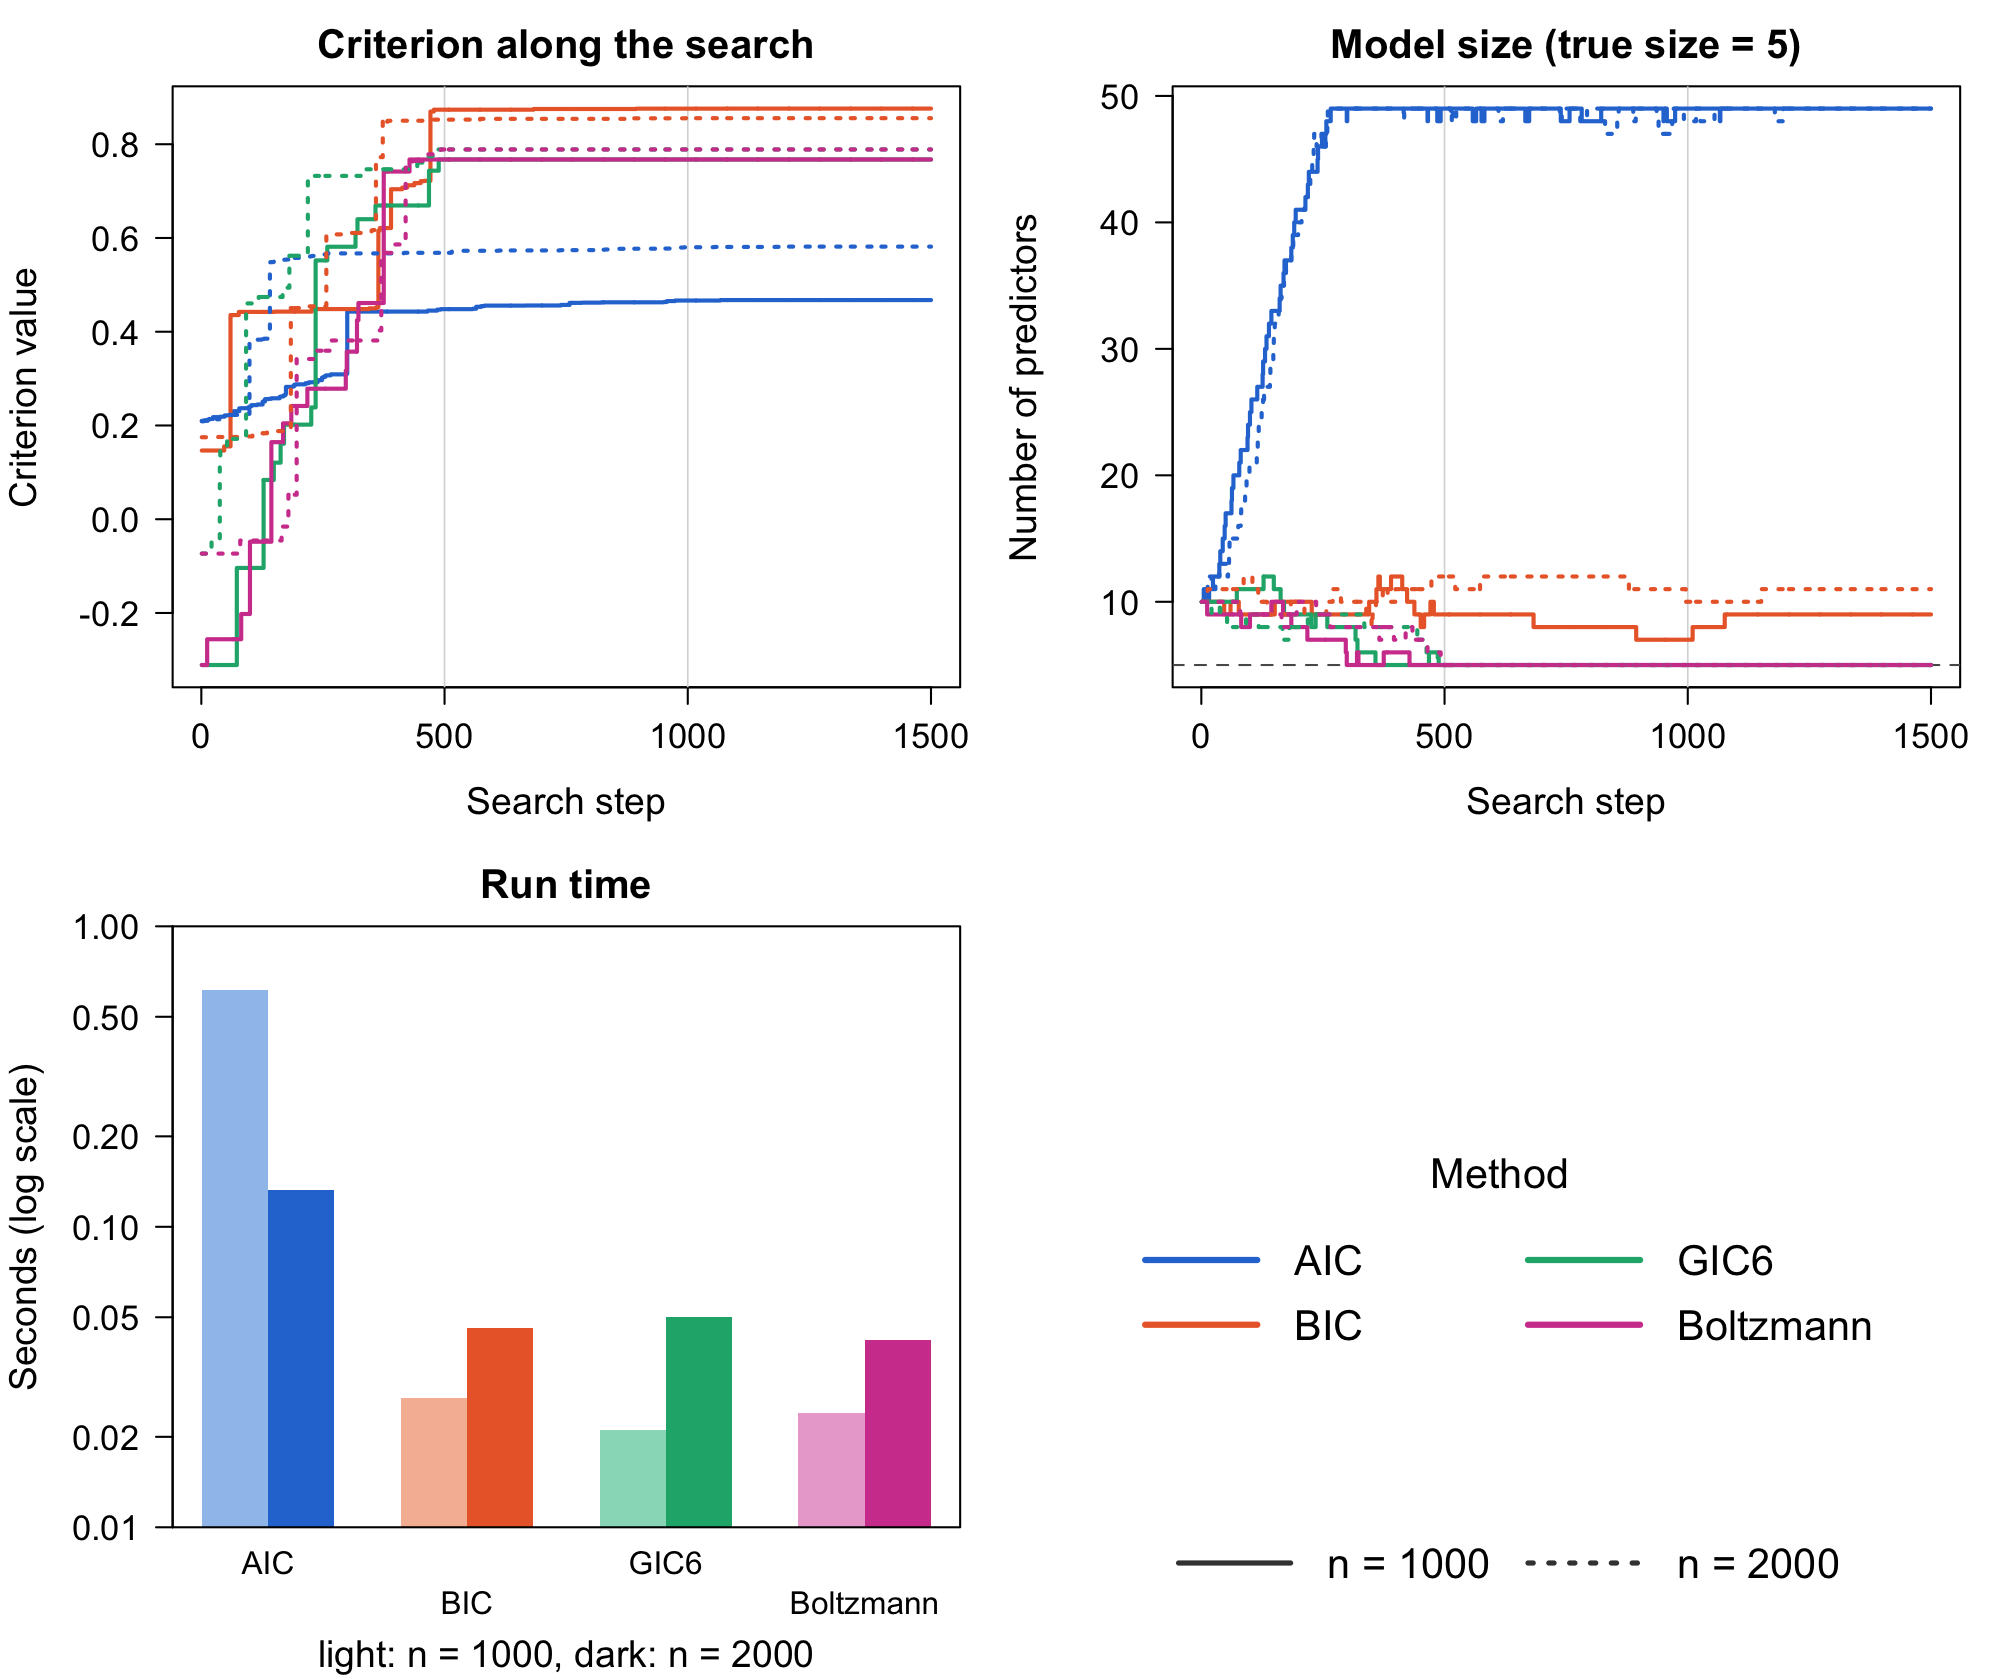
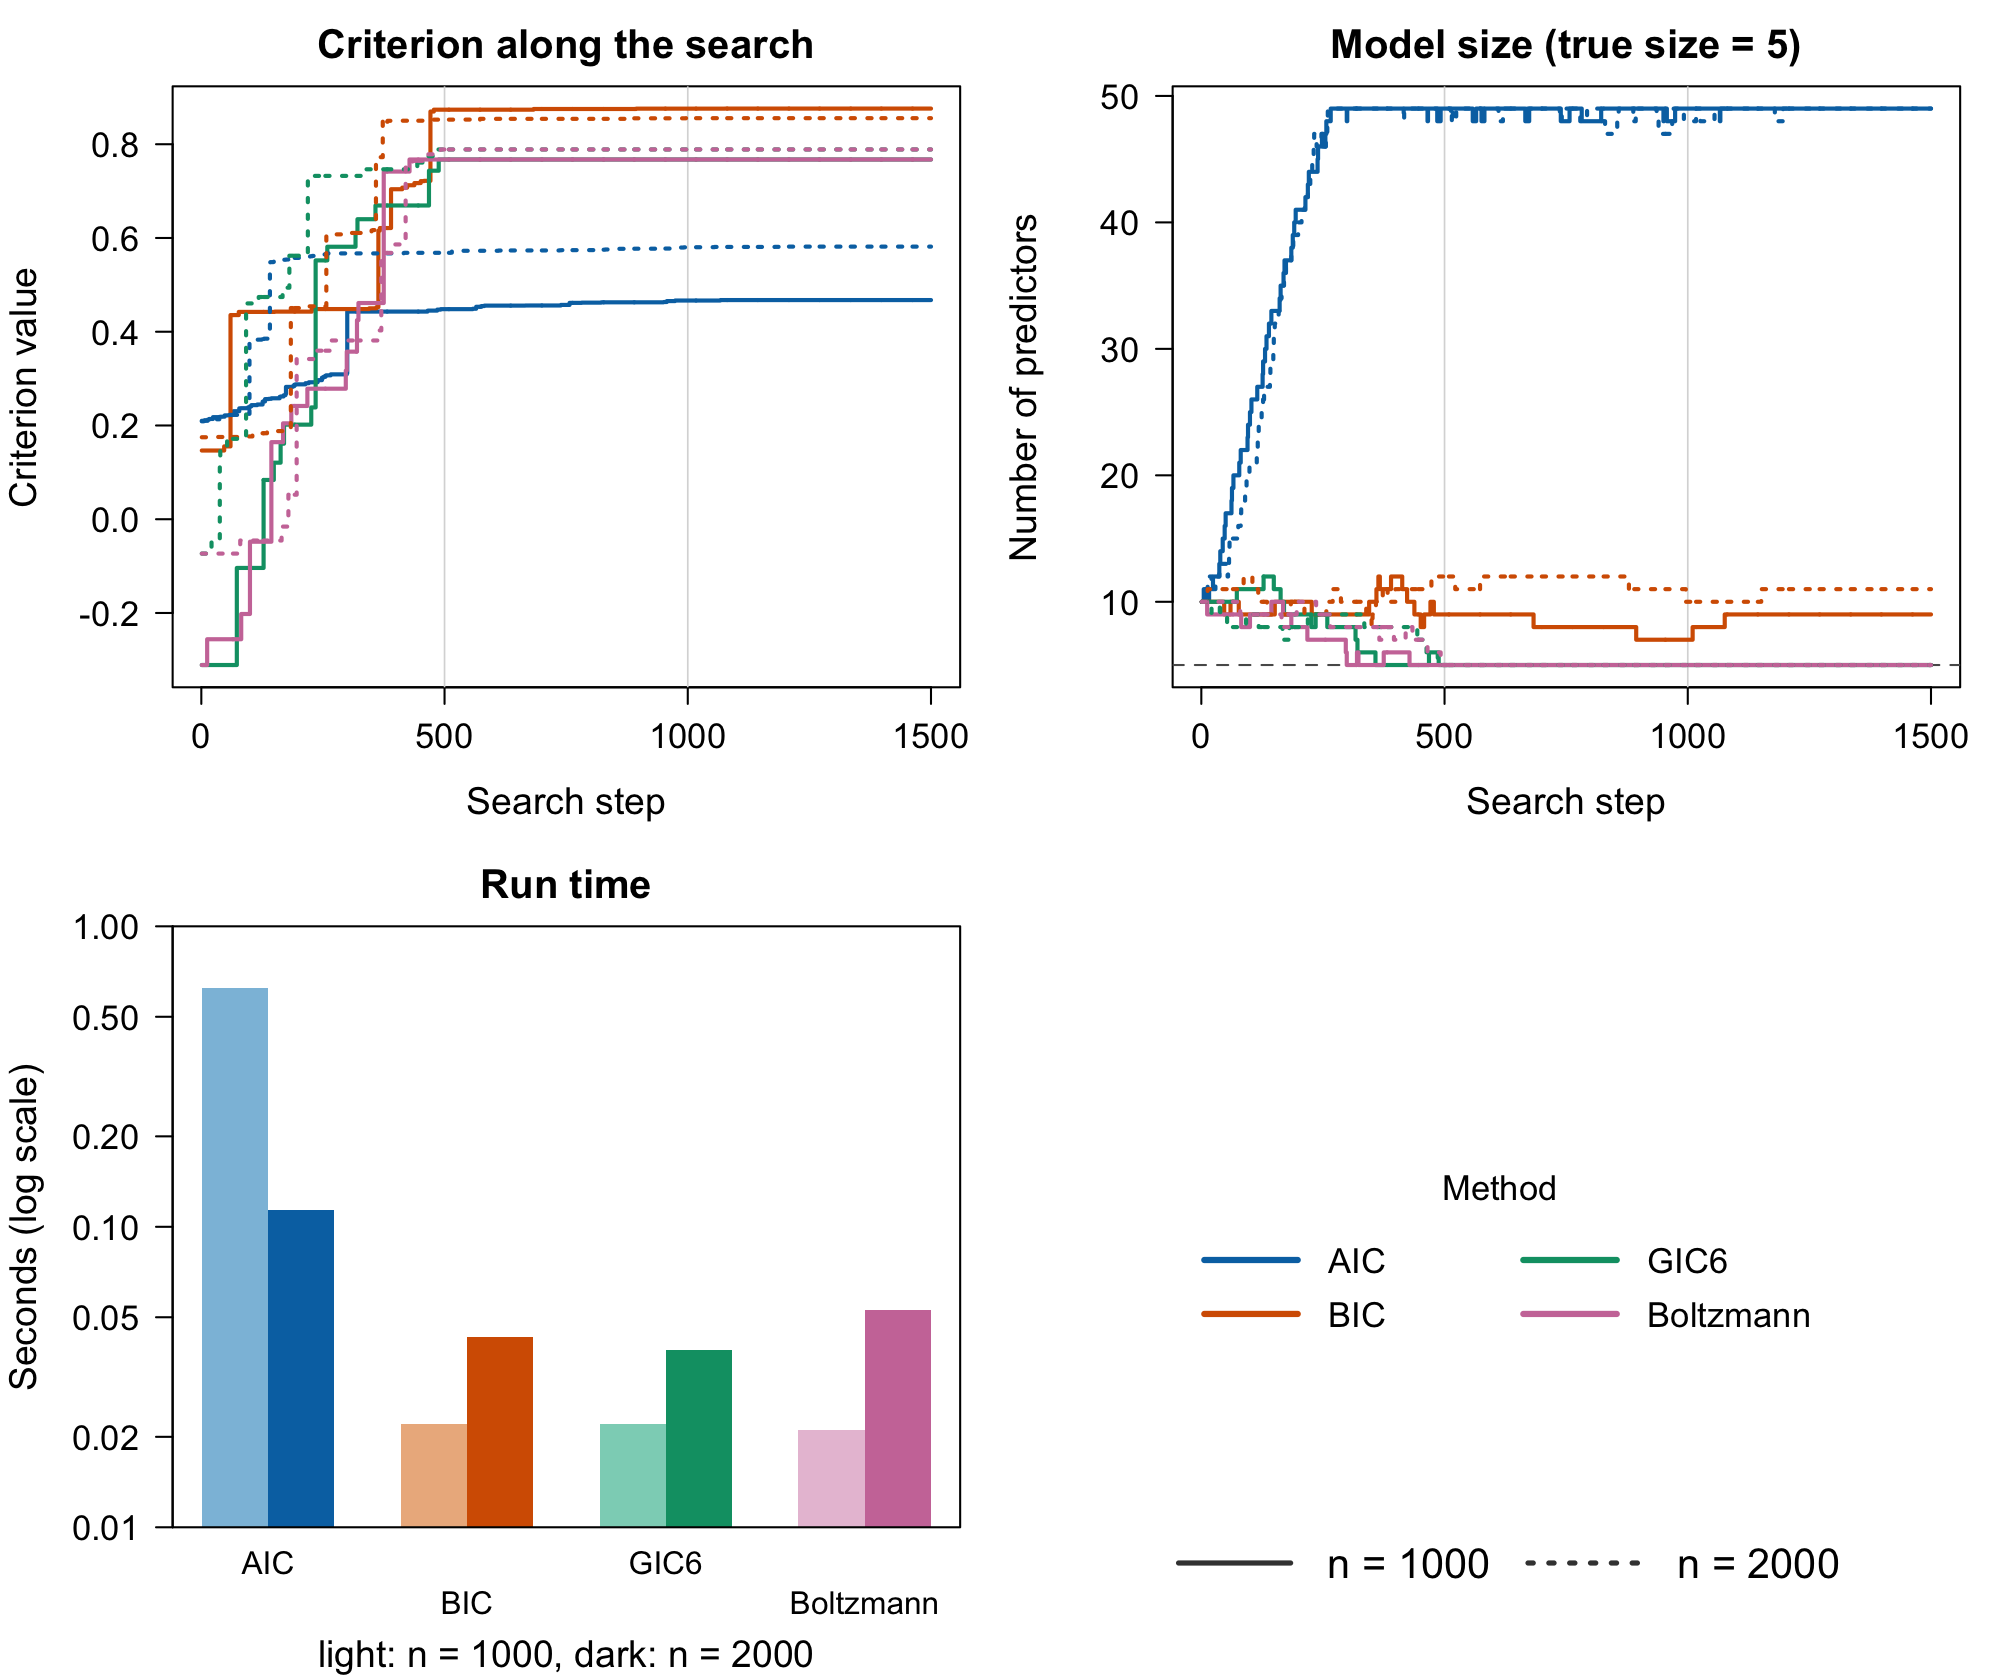
Figures: Okabe-Ito colours, signed-log criterion axis, lasso paths end at lambda.min
- Colours from the Okabe-Ito palette so the six methods are easier to tell
  apart; smaller legend text.
- Linear and multivariate examples: criterion value on a signed log scale,
  sign(y) log10(1 + |y|), labelled in the original units.
- Lasso paths now run from the smallest lambda to lambda.min, so they end at
  the selected model instead of dropping to zero predictors at the largest
  lambda.

diff --git a/README.md b/README.md
@@ -169,7 +169,8 @@ selected model, and the wall-clock time of each method in seconds. The
 right-hand panel of each
 figure shows the same times, and the middle panel also shows the lasso
 paths: the number of nonzero coefficients along the $\lambda$ grid, from the
-smallest $\lambda$ on the left to the largest on the right.
+smallest $\lambda$ on the left to the cross-validated $\lambda$ (`lambda.min`)
+on the right, so each path ends at the selected model.
 
 <!-- Helper functions used in the examples (hidden; run by data-raw/readme_figures.R)
 
@@ -217,8 +218,10 @@ fit_lasso <- function(X, y, family, adaptive = FALSE) {
     args$penalty.factor <- 1 / sqrt(rowSums(lasso_coef(ridge)^2))
   }
   cvfit <- do.call(glmnet::cv.glmnet, args)
+  # path: number of predictors at each lambda from lambda.min down to the
+  # smallest lambda, so it ends at the selected model
   list(selected = which(rowSums(lasso_coef(cvfit) != 0) > 0),
-       path = cvfit$nzero)        # number of predictors at each lambda
+       path = cvfit$nzero[cvfit$index["min", 1]:length(cvfit$nzero)])
 }
 
 # For each n, run the search once per criterion on the first n observations,
@@ -303,18 +306,18 @@ Y <- LP_to_Y(X, beta, family = "Normal", std = sqrt(sum(beta^2) / 0.71))
 fits <- compare_criteria(X, Y, 1:p, k = p, Nsim = 5)
 selection_table(fits, true_cols)
 #>                 size false_pos false_neg seconds
-#> n1000 AIC        152       147         0    0.71
-#> n1000 BIC          8         3         0    0.62
-#> n1000 GIC6         5         0         0    0.40
-#> n1000 Boltzmann    5         0         0    0.43
-#> n1000 Lasso       22        17         0    0.84
-#> n1000 AdaLasso    25        20         0    1.64
-#> n2000 AIC        116       111         0    0.68
-#> n2000 BIC          9         4         0    0.77
-#> n2000 GIC6         5         0         0    0.67
-#> n2000 Boltzmann    5         0         0    0.60
-#> n2000 Lasso       18        13         0    0.95
-#> n2000 AdaLasso    24        19         0    2.62
+#> n1000 AIC        152       147         0    0.61
+#> n1000 BIC          8         3         0    0.59
+#> n1000 GIC6         5         0         0    0.50
+#> n1000 Boltzmann    5         0         0    0.46
+#> n1000 Lasso       22        17         0    0.87
+#> n1000 AdaLasso    25        20         0    1.65
+#> n2000 AIC        116       111         0    0.90
+#> n2000 BIC          9         4         0    0.78
+#> n2000 GIC6         5         0         0    0.68
+#> n2000 Boltzmann    5         0         0    0.64
+#> n2000 Lasso       18        13         0    0.96
+#> n2000 AdaLasso    24        19         0    2.73
 ```
 
 ![Criteria, model size and run time, linear model with p = 500](man/figures/README-linear-runtime.png)
@@ -341,18 +344,18 @@ fits <- compare_criteria(X, Y_multi, 1:p, k = p, Nsim = 5,
                          lasso_family = "mgaussian", T = 0.05)
 selection_table(fits, true_union)
 #>                 size false_pos false_neg seconds
-#> n1000 AIC        102        80         2    0.49
-#> n1000 BIC         20         0         4    0.57
-#> n1000 GIC6        19         0         5    0.45
-#> n1000 Boltzmann   26         7         5    0.48
-#> n1000 Lasso      129       106         1    2.30
-#> n1000 AdaLasso    21         2         5    5.25
-#> n2000 AIC         69        45         0    0.87
-#> n2000 BIC         20         0         4    0.94
-#> n2000 GIC6        19         0         5    0.71
-#> n2000 Boltzmann   68        47         3    0.78
-#> n2000 Lasso      131       107         0    3.59
-#> n2000 AdaLasso    41        17         0    8.39
+#> n1000 AIC        102        80         2    0.66
+#> n1000 BIC         20         0         4    0.63
+#> n1000 GIC6        19         0         5    0.62
+#> n1000 Boltzmann   26         7         5    0.76
+#> n1000 Lasso      129       106         1    2.48
+#> n1000 AdaLasso    21         2         5    5.35
+#> n2000 AIC         69        45         0    0.75
+#> n2000 BIC         20         0         4    0.68
+#> n2000 GIC6        19         0         5    0.67
+#> n2000 Boltzmann   68        47         3    0.71
+#> n2000 Lasso      131       107         0    3.76
+#> n2000 AdaLasso    41        17         0    8.48
 ```
 
 ![Criteria, model size and run time, multivariate normal response](man/figures/README-multivariate-runtime.png)
@@ -387,17 +390,17 @@ fits <- compare_glm(y_pois, y_pois, "poisson", family = "Poisson", T = 0.001)
 selection_table(fits, true_cols)
 #>                 size false_pos false_neg seconds
 #> n1000 AIC         48        43         0    0.34
-#> n1000 BIC          9         4         0    0.14
+#> n1000 BIC          9         4         0    0.04
 #> n1000 GIC6         5         0         0    0.07
 #> n1000 Boltzmann    5         0         0    0.02
-#> n1000 Lasso       29        24         0    1.95
-#> n1000 AdaLasso     5         0         0    2.23
-#> n2000 AIC         49        44         0    0.07
+#> n1000 Lasso       29        24         0    1.94
+#> n1000 AdaLasso     5         0         0    2.13
+#> n2000 AIC         49        44         0    0.06
 #> n2000 BIC         10         5         0    0.05
-#> n2000 GIC6         5         0         0    0.13
-#> n2000 Boltzmann    5         0         0    0.05
-#> n2000 Lasso       51        46         0    1.48
-#> n2000 AdaLasso     5         0         0    4.02
+#> n2000 GIC6         5         0         0    0.22
+#> n2000 Boltzmann    5         0         0    0.04
+#> n2000 Lasso       51        46         0    1.46
+#> n2000 AdaLasso     5         0         0    4.04
 
 # Coefficients of the GIC6 model for n = 2000, intercept first
 round(Beta_estimate(X[, last_model(fits$n2000$GIC6)], y_pois, family = "Poisson"), 2)
@@ -414,18 +417,18 @@ fits <- compare_glm(y_binom, cbind(10 - y_binom, y_binom), "binomial",
                     family = "Binomial", n_trials = 10)
 selection_table(fits, true_cols)
 #>                 size false_pos false_neg seconds
-#> n1000 AIC         49        46         2    0.16
+#> n1000 AIC         49        46         2    0.21
 #> n1000 BIC          7         2         0    0.02
 #> n1000 GIC6         5         0         0    0.02
 #> n1000 Boltzmann    5         0         0    0.02
-#> n1000 Lasso       29        24         0    1.39
-#> n1000 AdaLasso    35        30         0    2.87
-#> n2000 AIC         48        46         3    0.11
-#> n2000 BIC          7         2         0    0.05
-#> n2000 GIC6         5         0         0    0.05
-#> n2000 Boltzmann    5         0         0    0.13
-#> n2000 Lasso       39        34         0    1.70
-#> n2000 AdaLasso     5         0         0    4.87
+#> n1000 Lasso       29        24         0    1.43
+#> n1000 AdaLasso    35        30         0    2.95
+#> n2000 AIC         48        46         3    0.06
+#> n2000 BIC          7         2         0    0.15
+#> n2000 GIC6         5         0         0    0.09
+#> n2000 Boltzmann    5         0         0    0.04
+#> n2000 Lasso       39        34         0    1.73
+#> n2000 AdaLasso     5         0         0    4.93
 ```
 
 ![Criteria, model size and run time, binomial response](man/figures/README-binomial-runtime.png)
@@ -443,12 +446,12 @@ fits <- compare_glm(y_mn, NULL, NULL, family = "Multinomial", n_categories = 3)
 selection_table(fits, true_cols)
 #>                 size false_pos false_neg seconds
 #> n1000 AIC         49        47         3    0.13
-#> n1000 BIC          7         2         0    0.02
+#> n1000 BIC          7         2         0    0.03
 #> n1000 GIC6         5         0         0    0.02
 #> n1000 Boltzmann    5         0         0    0.02
-#> n2000 AIC         49        45         1    0.12
-#> n2000 BIC          6         1         0    0.04
-#> n2000 GIC6         5         0         0    0.05
+#> n2000 AIC         49        45         1    0.13
+#> n2000 BIC          6         1         0    0.13
+#> n2000 GIC6         5         0         0    0.04
 #> n2000 Boltzmann   13         8         0    0.05
 ```
 
@@ -474,13 +477,13 @@ fits <- compare_glm(y_cox, NULL, NULL, family = "Cox", T = 0.001)
 selection_table(fits, true_cols)
 #>                 size false_pos false_neg seconds
 #> n1000 AIC         49        47         3    0.62
-#> n1000 BIC          9         4         0    0.03
+#> n1000 BIC          9         4         0    0.02
 #> n1000 GIC6         5         0         0    0.02
 #> n1000 Boltzmann    5         0         0    0.02
-#> n2000 AIC         49        46         2    0.13
-#> n2000 BIC         11         6         0    0.05
-#> n2000 GIC6         5         0         0    0.05
-#> n2000 Boltzmann    5         0         0    0.04
+#> n2000 AIC         49        46         2    0.11
+#> n2000 BIC         11         6         0    0.04
+#> n2000 GIC6         5         0         0    0.04
+#> n2000 Boltzmann    5         0         0    0.05
 
 # Coefficients of the GIC6 model for n = 2000, from survival::coxph()
 round(unname(coef(survival::coxph(y_surv ~ X[, last_model(fits$n2000$GIC6)]))), 2)
